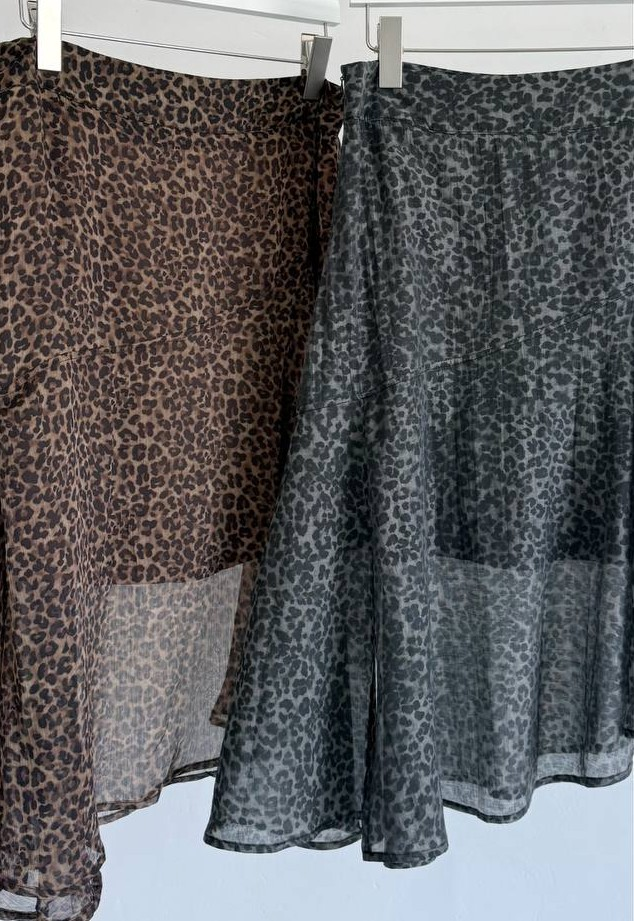
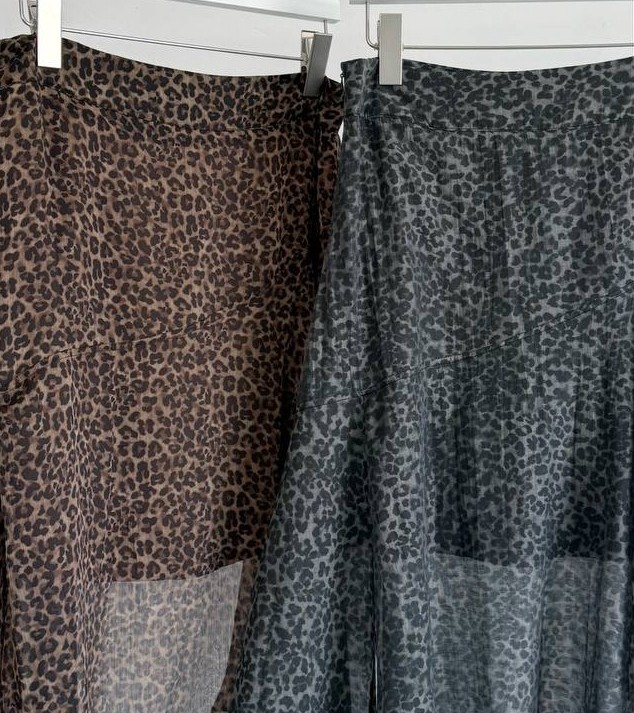
size css

diff --git a/lookbook.html b/lookbook.html
@@ -199,75 +199,112 @@
 
 
     <section id="razmery">
+
       <h3>Size Chart</h3>
-      <table>
-        <caption>Instyle.zh2 t-shirt size chart (real measurements)</caption>
-        <thead>
-          <tr>
-            <th scope="col">Size</th>
-            <th scope="col">Chest</th>
-            <th scope="col">Length</th>
-          </tr>
-        </thead>
-        <tbody>
-          <tr>
-            <th scope="row">S</th>
-            <td>88</td>
-            <td>60</td>
-          </tr>
-          <tr>
-            <th scope="row">M</th>
-            <td>92</td>
-            <td>63</td>
-          </tr>
-          <tr>
-            <th scope="row">L</th>
-            <td>96</td>
-            <td>65</td>
-          </tr>
-        </tbody>
-      </table>
 
-      <h3>How to Measure Yourself Correctly</h3>
-      <ol start="1">
-        <li>Wrap a measuring tape around your chest at its fullest point.</li>
-        <li>Measure the length from the shoulder to the desired hem.</li>
-        <li>Compare against the table above.</li>
-      </ol>
+      <div class="size-measurement">
 
-      <dl>
-        <dt>Oversize</dt>
-        <dd>A loose cut, 1&ndash;2 sizes bigger than usual.</dd>
-        <dt>Slim fit</dt>
-        <dd>A fitted cut that follows the body's silhouette.</dd>
-      </dl>
-    </section>
+        <!-- Size Chart -->
+        <div class="size-chart">
 
-    <p>
-      Sizes are given in <abbr title="centimeter">cm</abbr> and are real product measurements, not
-      conventional &ldquo;EU sizes&rdquo; &mdash; this makes it easier to compare models,
-      <abbr title="and so on">etc.</abbr> The price tag already reflects the seasonal
-      discount<sup>1</sup>.
-    </p>
+          <table>
+            <caption>Instyle.zh2 t-shirt size chart (real measurements)</caption>
 
-    <p>
-      See the full catalog on the <a href="catalog.html">&ldquo;Catalog&rdquo;</a> page, or the
-      official Instagram&reg; of &laquo;Instyle.zh2&raquo; &mdash;
-      <a href="https://www.instagram.com/instyle.zh2" target="_blank" rel="noopener noreferrer">right here</a> (opens
-      in
-      a new tab).
-    </p>
+            <thead>
+              <tr>
+                <th scope="col">Size</th>
+                <th scope="col">Chest</th>
+                <th scope="col">Length</th>
+              </tr>
+            </thead>
 
-    <!-- Comment: div is used only as a wrapper for the note paragraph here, because
-         no semantic tag (there's no "note"/"warning" tag in HTML) fits &mdash;
-         it's not an aside (not a secondary column) and not a section. -->
-    <div>
-      <p><small>Check availability by phone &mdash; the in-store size run may differ from what's on display.</small>
+            <tbody>
+              <tr>
+                <th scope="row">S</th>
+                <td>88</td>
+                <td>60</td>
+              </tr>
+
+              <tr>
+                <th scope="row">M</th>
+                <td>92</td>
+                <td>63</td>
+              </tr>
+
+              <tr>
+                <th scope="row">L</th>
+                <td>96</td>
+                <td>65</td>
+              </tr>
+            </tbody>
+
+          </table>
+
+        </div>
+
+
+        <!-- How to Measure -->
+        <div class="measure-guide">
+
+          <h3>How to Measure Yourself Correctly</h3>
+
+          <img src="images/measure-yourself.png" alt="How to measure yourself correctly">
+
+        </div>
+
+      </div>
+
+
+      <!-- Fit Information -->
+      <div class="fit-information">
+
+        <div class="fit-item">
+          <h3>Oversize</h3>
+          <p>A loose cut, 1&ndash;2 sizes bigger than usual.</p>
+        </div>
+
+        <div class="fit-item">
+          <h3>Slim fit</h3>
+          <p>A fitted cut that follows the body's silhouette.</p>
+        </div>
+
+      </div>
+
+
+      <!-- Additional Information -->
+      <div class="size-notes">
+
+        <p>
+          Sizes are given in <abbr title="centimeter">cm</abbr> and are real product
+          measurements, not conventional &ldquo;EU sizes&rdquo; &mdash; this makes it
+          easier to compare models, <abbr title="and so on">etc.</abbr>
+          The price tag already reflects the seasonal discount.
+        </p>
+
+        <p>
+          See the full catalog on the
+          <a href="catalog.html">&ldquo;Catalog&rdquo;</a> page, or the official
+          Instagram&reg; of &laquo;Instyle.zh2&raquo; &mdash;
+          <a href="https://www.instagram.com/instyle.zh2" target="_blank" rel="noopener noreferrer">right here</a>
+          (opens in a new tab).
+        </p>
+
+        <p>
+          <small>
+            Check availability by phone &mdash; the in-store size run may differ
+            from what's on display.
+          </small>
+        </p>
+
+      </div>
+
+      <p>
+        <a href="#razmery">&uarr; Back to the size chart</a>
+        &nbsp;|&nbsp;
+        <a href="index.html">&uarr; Back to Home</a>
       </p>
-    </div>
 
-    <p><a href="#razmery">&uarr; Back to the size chart</a> &nbsp;|&nbsp; <a href="index.html">&uarr; Back to Home</a>
-    </p>
+    </section>
     <h2>Lookbook</h2>
 
     <p>

diff --git a/css/alina.css b/css/alina.css
@@ -110,32 +110,31 @@ nav ul {
 }
 
 .look-products {
-  padding: 5px 35px 50px;
+  padding: 20px 55px 70px;
 }
 
 .look-products-header {
   display: flex;
   justify-content: space-between;
   align-items: center;
-  margin-bottom: 28px;
+  margin-bottom: 35px;
 }
 
 .look-products-header h3 {
   margin: 0;
-  font-size: 1.6rem;
+  font-size: 1.5rem;
   font-weight: 700;
 }
 
 .look-products-header span {
-  font-size: 0.9rem;
-  font-weight: 600;
+  font-size: 0.85rem;
   color: #777;
 }
 
 .look-products-grid {
   display: grid;
   grid-template-columns: repeat(2, 1fr);
-  gap: 50px 12px;
+  gap: 70px 14px;
 }
 
 .look-product {
@@ -147,7 +146,7 @@ nav ul {
 .look-product-image {
   position: relative;
   width: 100%;
-  height: 485px;
+  height: 330px;
   background-color: #f5f5f7;
   overflow: hidden;
 }
@@ -161,39 +160,39 @@ nav ul {
 
 .look-product-image button {
   position: absolute;
-  right: 12px;
-  bottom: 12px;
-  width: 32px;
-  height: 32px;
+  right: 10px;
+  bottom: 10px;
+  width: 35px;
+  height: 35px;
   border: none;
   background-color: #ffffff;
-  font-size: 16px;
+  font-size: 21px;
   padding: 0;
   cursor: pointer;
 }
 
 .look-product h4 {
-  margin: 12px 10px 3px;
-  font-size: 0.95rem;
+  margin: 12px 10px 4px;
+  font-size: 0.9rem;
   line-height: 1.35;
   font-weight: 700;
-  min-height: 52px;
+  min-height: 42px;
 }
 
 .look-product p {
   margin: 0 10px 12px;
-  font-size: 0.95rem;
+  font-size: 0.9rem;
   font-weight: 600;
 }
 
 .look-add-button {
   width: calc(100% - 20px);
   margin: 0 10px;
-  height: 43px;
+  height: 40px;
   border: none;
   background-color: #000000;
   color: #ffffff;
-  font-size: 0.9rem;
+  font-size: 0.85rem;
   font-weight: 700;
   cursor: pointer;
 }
@@ -218,4 +217,123 @@ nav ul {
   .look-product-image {
     height: 300px;
   }
+}
+
+#razmery {
+  padding: 40px 50px 60px;
+}
+
+#razmery>h3 {
+  margin-bottom: 30px;
+}
+
+
+/* TABLE + MEASUREMENT IMAGE */
+
+.size-measurement {
+  display: grid;
+  grid-template-columns: 1fr 1fr;
+  gap: 40px;
+  align-items: start;
+  max-width: 1300px;
+  margin: 0 auto;
+}
+
+
+/* SIZE TABLE */
+
+.size-chart table {
+  width: 100%;
+  border-collapse: collapse;
+  font-size: 15px;
+}
+
+.size-chart caption {
+  font-size: 18px;
+  margin-bottom: 10px;
+}
+
+.size-chart th,
+.size-chart td {
+  border: 1px solid #ccc;
+  padding: 10px 14px;
+  text-align: left;
+}
+
+.size-chart thead th {
+  background-color: #d3d3d3;
+}
+
+.size-chart tbody th {
+  background-color: #d3d3d3;
+}
+
+
+/* HOW TO MEASURE */
+
+.measure-guide h3 {
+  margin-top: 0;
+  margin-bottom: 15px;
+}
+
+.measure-guide img {
+  width: 100%;
+  max-width: 600px;
+  display: block;
+}
+
+
+/* OVERSIZE + SLIM FIT */
+
+.fit-information {
+  display: grid;
+  grid-template-columns: 1fr 1fr;
+  gap: 50px;
+  max-width: 1300px;
+  margin: 45px auto 0;
+  padding-top: 25px;
+  border-top: 1px solid #ddd;
+}
+
+.fit-item h3 {
+  margin: 0 0 8px;
+}
+
+.fit-item p {
+  margin: 0;
+  line-height: 1.5;
+}
+
+
+/* ADDITIONAL INFORMATION */
+
+.size-notes {
+  max-width: 1300px;
+  margin: 30px auto 0;
+}
+
+.size-notes p {
+  margin-bottom: 15px;
+  line-height: 1.5;
+  font-size: 15px;
+}
+
+
+/* MOBILE */
+
+@media (max-width: 800px) {
+
+  .size-measurement {
+    grid-template-columns: 1fr;
+  }
+
+  .fit-information {
+    grid-template-columns: 1fr;
+    gap: 25px;
+  }
+
+  #razmery {
+    padding: 30px 20px;
+  }
+
 }
